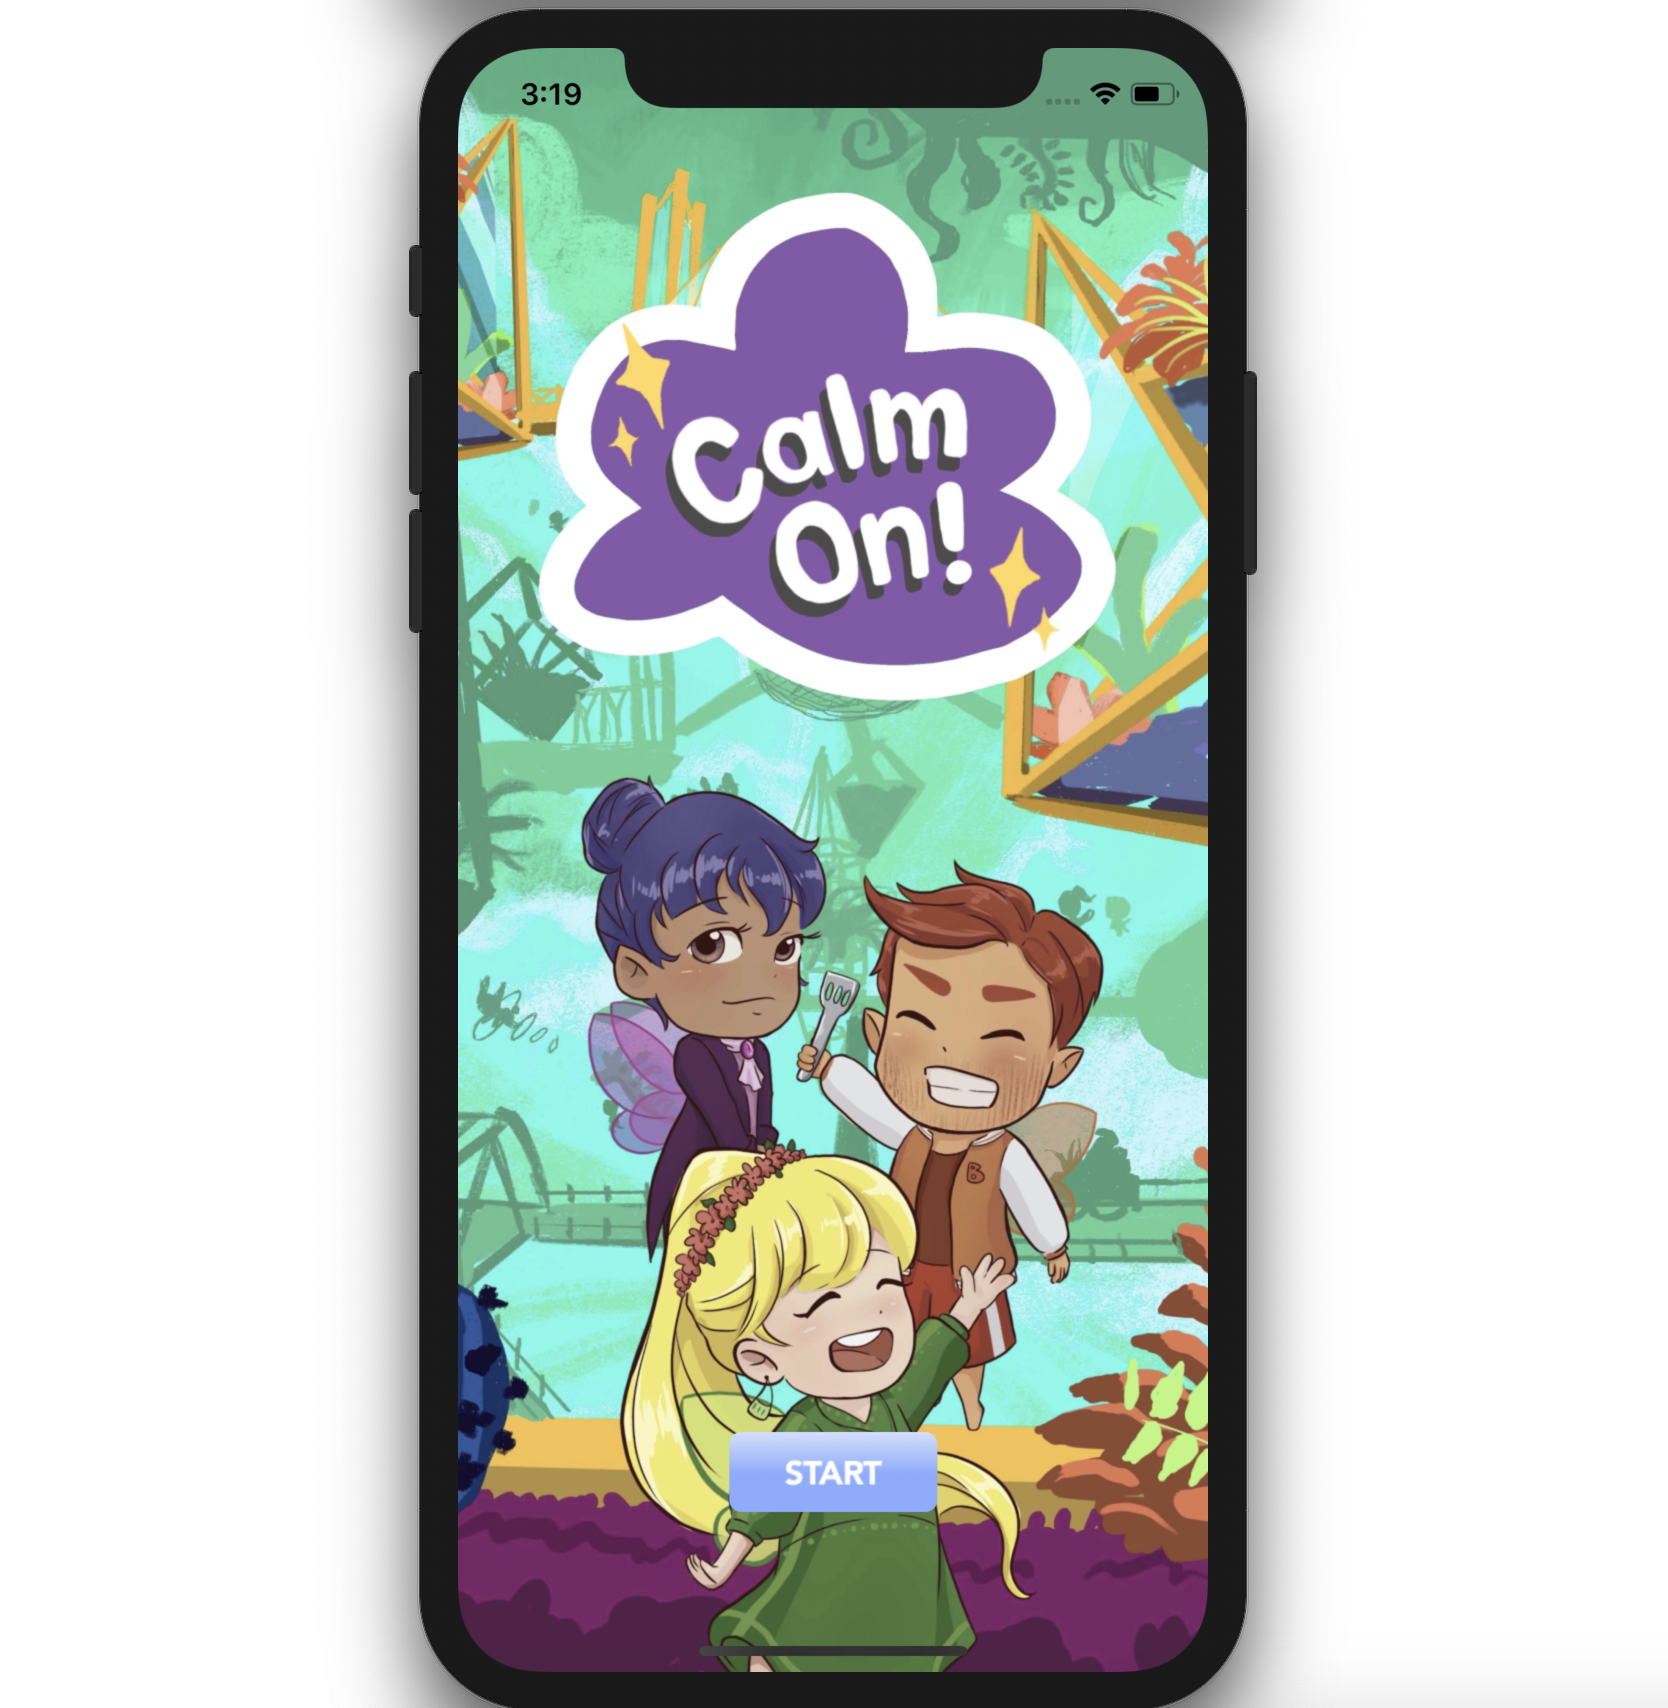
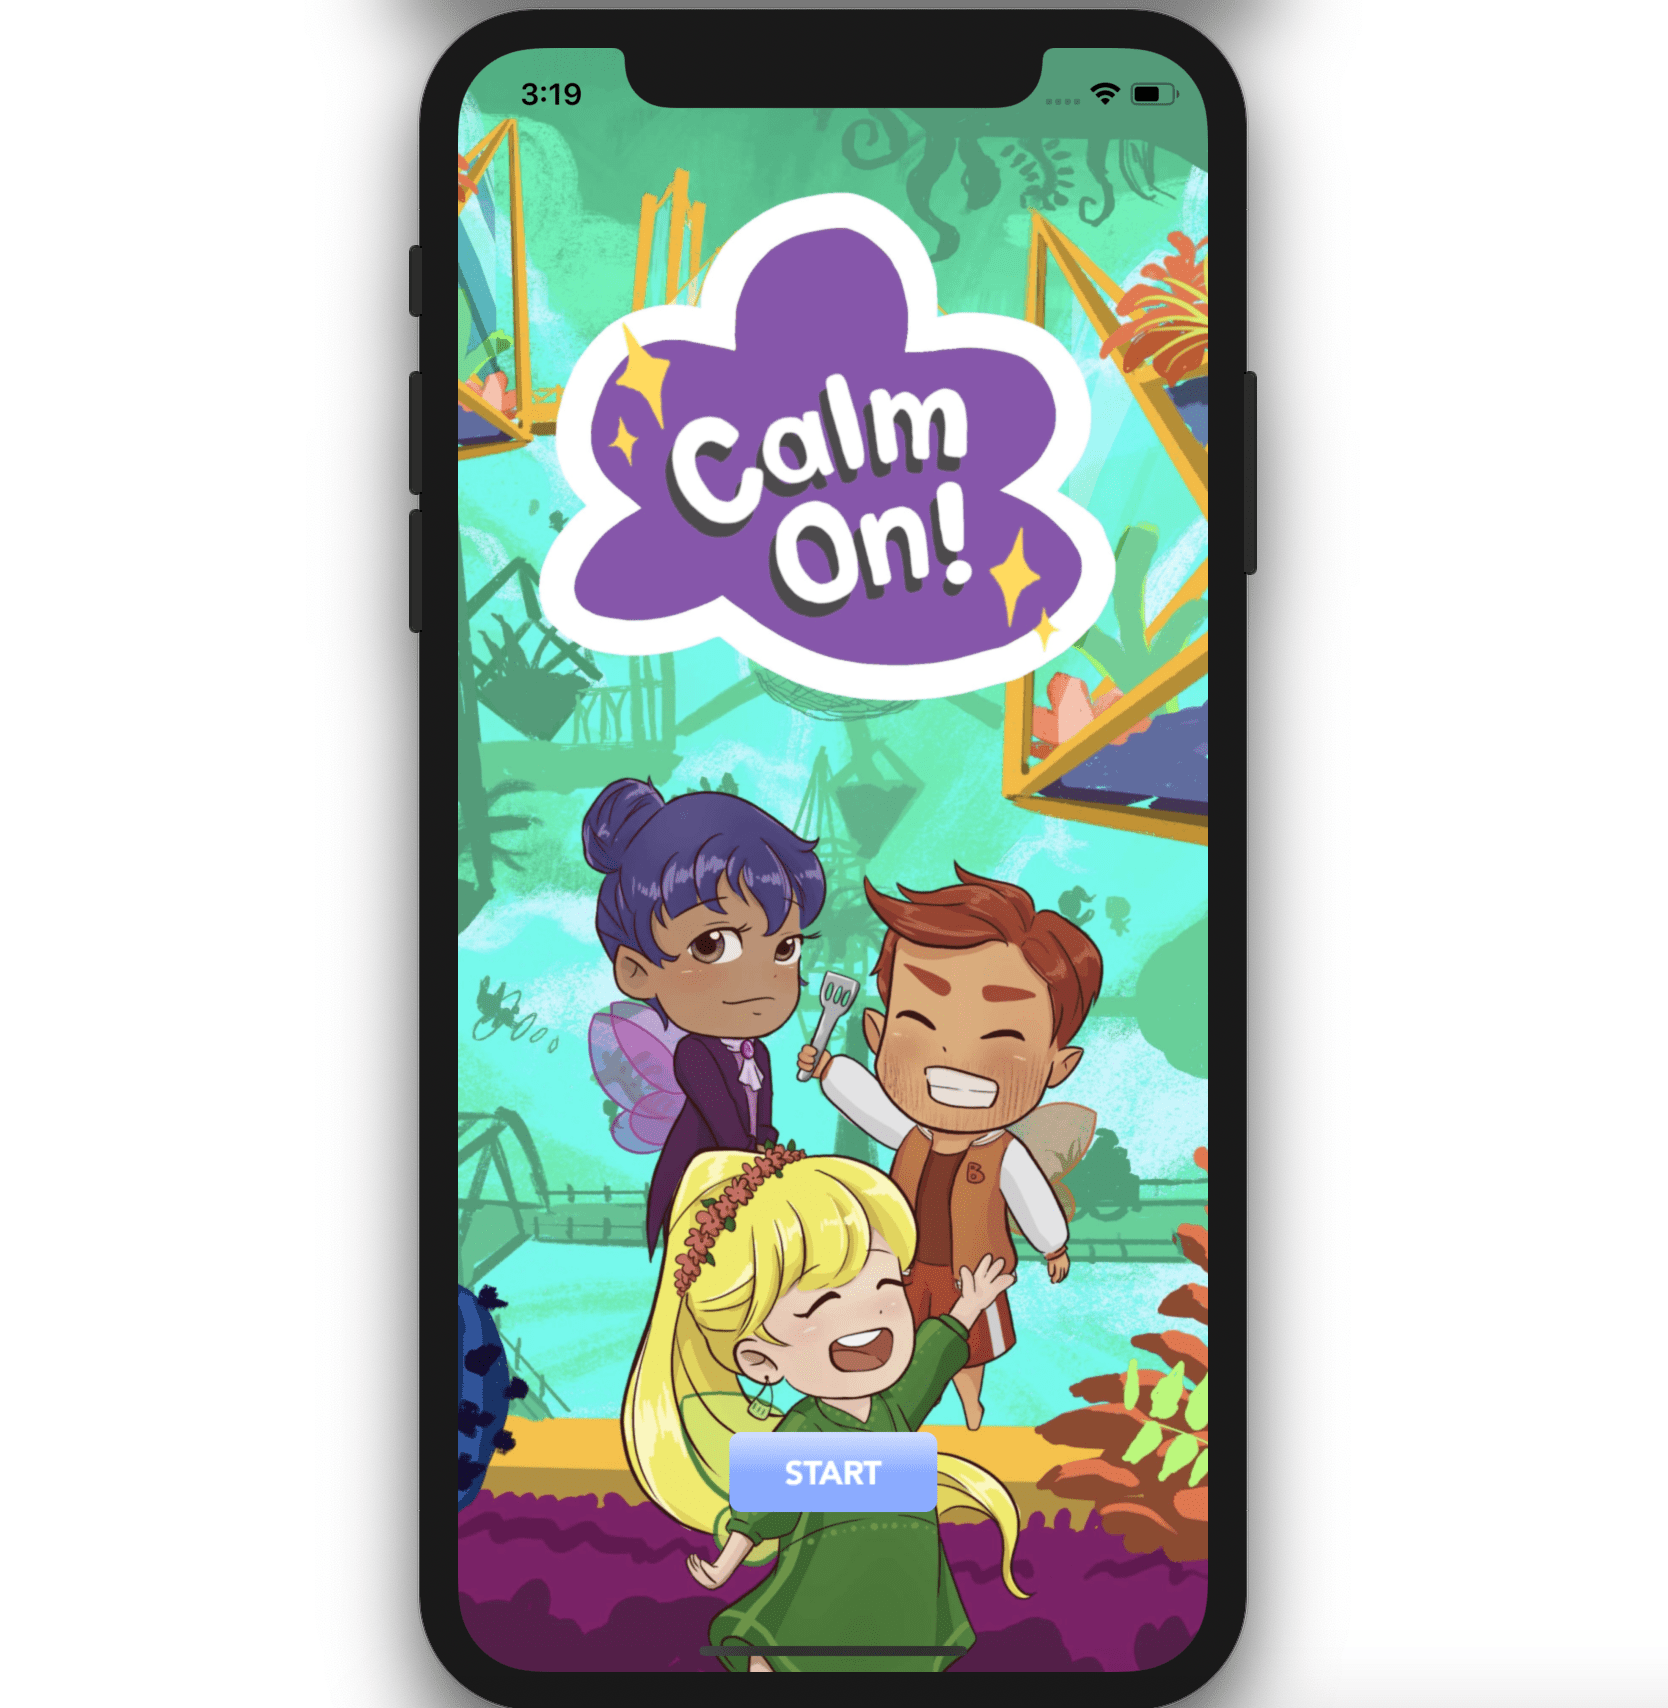
Updated lighter asset, fixed security flaw, removed some comments

diff --git a/devport-app/src/App.css b/devport-app/src/App.css
@@ -5,7 +5,7 @@
   overflow-x: hidden;
 }
 
-/* For debugging purposes */
+/* SAVE: cool trick for debugging purposes */
 /* * {
   background: #000 !important;
   color: #0f0 !important;
@@ -22,17 +22,6 @@
     animation: App-logo-spin infinite 20s linear;
   }
 }
-
-/* .App-header {
-  background-color: #282c34;
-  min-height: 100vh;
-  display: flex;
-  flex-direction: column;
-  align-items: center;
-  justify-content: center;
-  font-size: calc(10px + 2vmin);
-  color: white;
-} */
 
 .App-link {
   color: #61dafb;

diff --git a/devport-app/src/components/Header.js b/devport-app/src/components/Header.js
@@ -109,17 +109,6 @@ class Header extends Component {
             >
               Skills
             </Button>
-            {/* <Button
-              activeClass="active"
-              to="About"
-              spy={true}
-              smooth={true}
-              offset={50}
-              duration={500}
-              onSetActive={this.handleSetActive}
-            >
-              Contact
-            </Button> */}
           </ButtonContainer>
         </FadeIn>
       </HeaderContainer>
